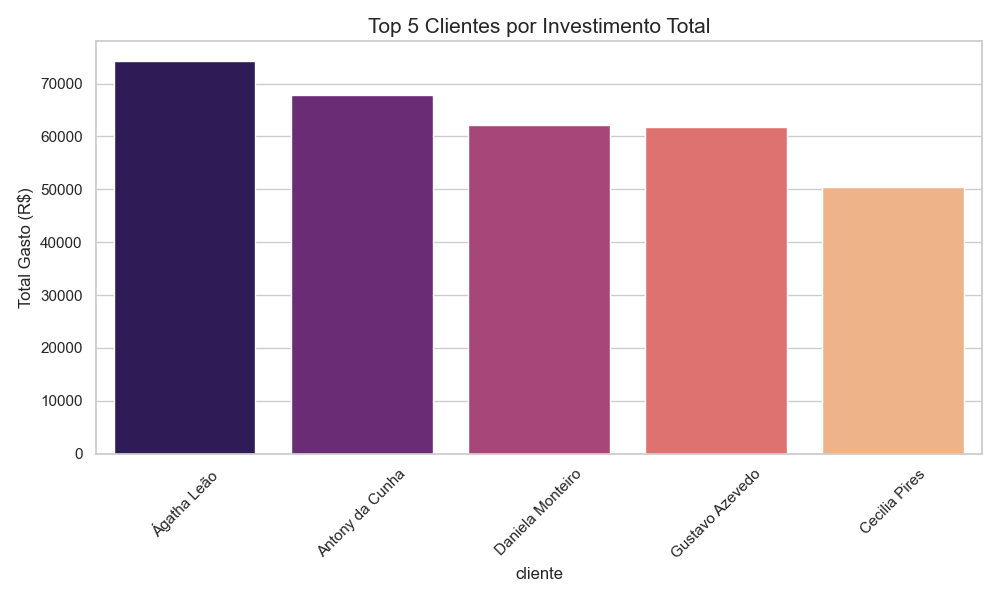
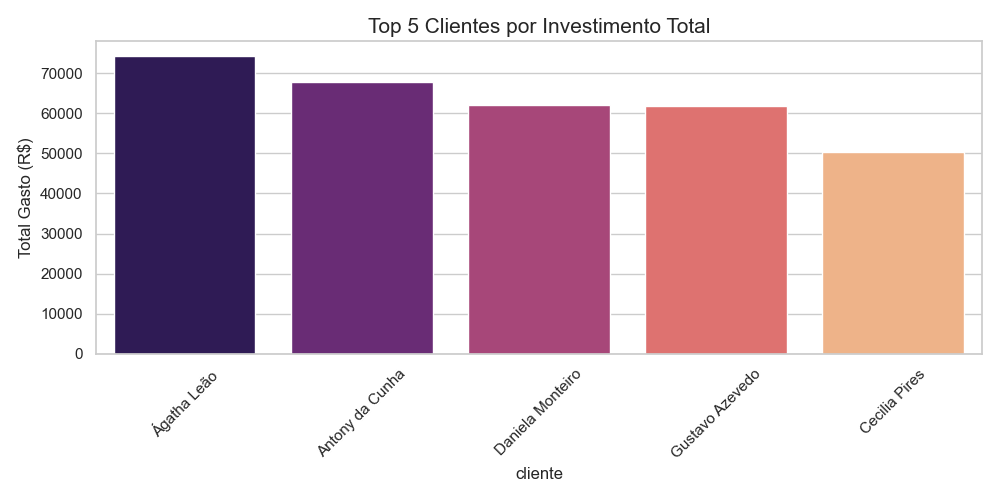
new graphs+ignore

diff --git a/script_visualizacao.py b/script_visualizacao.py
@@ -1,20 +1,28 @@
 import pandas as pd
 import matplotlib.pyplot as plt
 import seaborn as sns
+import unicodedata
+
+def limpar_texto(texto):
+    if pd.isna(texto): return texto
+    return unicodedata.normalize('NFKD', str(texto)).encode('ascii', 'ignore').decode('utf-8').upper()
 
 sns.set_theme(style="whitegrid")
-plt.rcParams['figure.figsize'] = (10, 6)
+plt.rcParams['figure.figsize'] = (10, 5)
 
 # Carregar os dados
 
 df = pd.read_csv('data/vendas_cleaned.csv')
 
+df['categoria'] = df['categoria'].apply(limpar_texto)
+df['regiao'] = df['regiao'].apply(limpar_texto)
+
 # Gráfico 1 - Faturamento Total por Categoria
 
 plt.figure()
 faturamento_cat = df.groupby('categoria')['valor_total'].sum().sort_values(ascending=False)
-sns.barplot(x=faturamento_cat.values, y=faturamento_cat.index, palette='viridis')
-plt.title('Faturamento Total por Categoria', fontsize=15)
+sns.barplot(x=faturamento_cat.values, y=faturamento_cat.index, hue=faturamento_cat.index, palette='viridis', legend=False)
+plt.title('Faturamento Total por Categoria (Normalizado)', fontsize=15)
 plt.xlabel('Faturamento (R$)')
 plt.ylabel('Categoria')
 plt.tight_layout()
@@ -24,19 +32,50 @@ plt.savefig('grafico_faturamento_categoria.png')
 
 plt.figure()
 top_clientes = df.groupby('cliente')['valor_total'].sum().sort_values(ascending=False).head(5)
-sns.barplot(x=top_clientes.index, y=top_clientes.values, palette='magma')
+sns.barplot(x=top_clientes.index, y=top_clientes.values, hue=top_clientes.index, palette='magma', legend=False)
 plt.title('Top 5 Clientes por Investimento Total', fontsize=15)
 plt.xticks(rotation=45)
 plt.ylabel('Total Gasto (R$)')
 plt.tight_layout()
 plt.savefig('grafico_top_clientes.png')
 
-# Gráfico 3 - Distribuição de Vendas por Região
+# Gráfico 3 - Top 5 Clientes vs. Gasto Médio Geral
+
+plt.figure()
+media_gasto = df['valor_total'].mean()
+sns.barplot(x=top_clientes.index, y=top_clientes.values, hue=top_clientes.index, palette='magma', legend=False)
+plt.axhline(y=media_gasto, color='orange', linestyle='--', label=f'Média Geral por Venda: R$ {media_gasto:.2f}')
+plt.title('Top 5 Clientes vs. Média Geral de Gastos', fontsize=15)
+plt.xticks(rotation=45)
+plt.ylabel('Total Gasto (R$)')
+plt.legend()
+plt.tight_layout()
+plt.savefig('grafico_top_clientes_vs_media.png')
+
+# Gráfico 4 - Distribuição de Vendas por Região
 
 plt.figure()
 regiao_qtd = df.groupby('regiao')['quantidade'].sum().sort_values(ascending=False)
 plt.pie(regiao_qtd, labels=regiao_qtd.index, autopct='%1.1f%%', startangle=140, colors=sns.color_palette('pastel'))
-plt.title('Distribuição de Quantidade de Itens Vendidos por Região', fontsize=15)
+plt.title('Distribuição de Quantidade de Itens por Região', fontsize=15)
 plt.tight_layout()
 plt.savefig('grafico_vendas_regiao.png')
 
+# Gráfico 5 - Distribuição de Faturamento % por Região
+
+plt.figure()
+regiao_faturamento = df.groupby('regiao')['valor_total'].sum().sort_values(ascending=False)
+plt.pie(regiao_faturamento, labels=regiao_faturamento.index, autopct='%1.1f%%', startangle=140, colors=sns.color_palette('Set2'))
+plt.title('Participação no Faturamento Total por Região', fontsize=15)
+plt.tight_layout()
+plt.savefig('grafico_faturamento_regiao.png')
+
+# Gráfico 6 - Ticket Médio por Região
+
+ticket_medio = (df.groupby('regiao')['valor_total'].sum() / df.groupby('regiao')['quantidade'].sum()).sort_values(ascending=False)
+sns.barplot(x=ticket_medio.index, y=ticket_medio.values, hue=ticket_medio.index, palette='coolwarm', legend=False)
+plt.title('Ticket Médio por Região (Faturamento/Qtd)', fontsize=15)   
+plt.xlabel('Região')
+plt.ylabel('Ticket Médio (R$)')
+plt.tight_layout()
+plt.savefig('grafico_ticket_medio_regiao.png')
